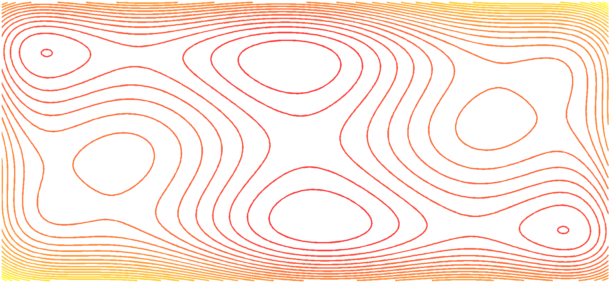
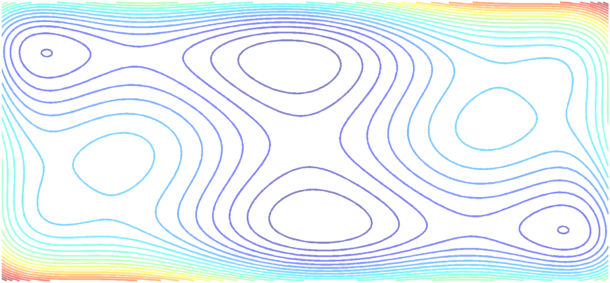
Updated front page figure.

diff --git a/demo3.m b/demo3.m
@@ -13,8 +13,8 @@ f = @(x,y) (4-2.1*x.^2+ x.^4/3).*x.^2 ...
 F = chebfun2(f,[-2 2 -1.25 1.25]);
 % Find the minimum and plot it
 [minf,minx] = min2(F);
-contour(F,25,LW,1.2), axis([-2 2 -1.25 1.25])
-colormap(autumn*3/4+1/4)
+contour(F,25,LW,1.6), axis([-2 2 -1.25 1.25])
+colormap(jet*1/2+1/2)
 hold on, plot(minx(1),minx(2),'.w',MS,20)
 
 set(h, 'Position', [0 0 650 340])   % make it the right size
